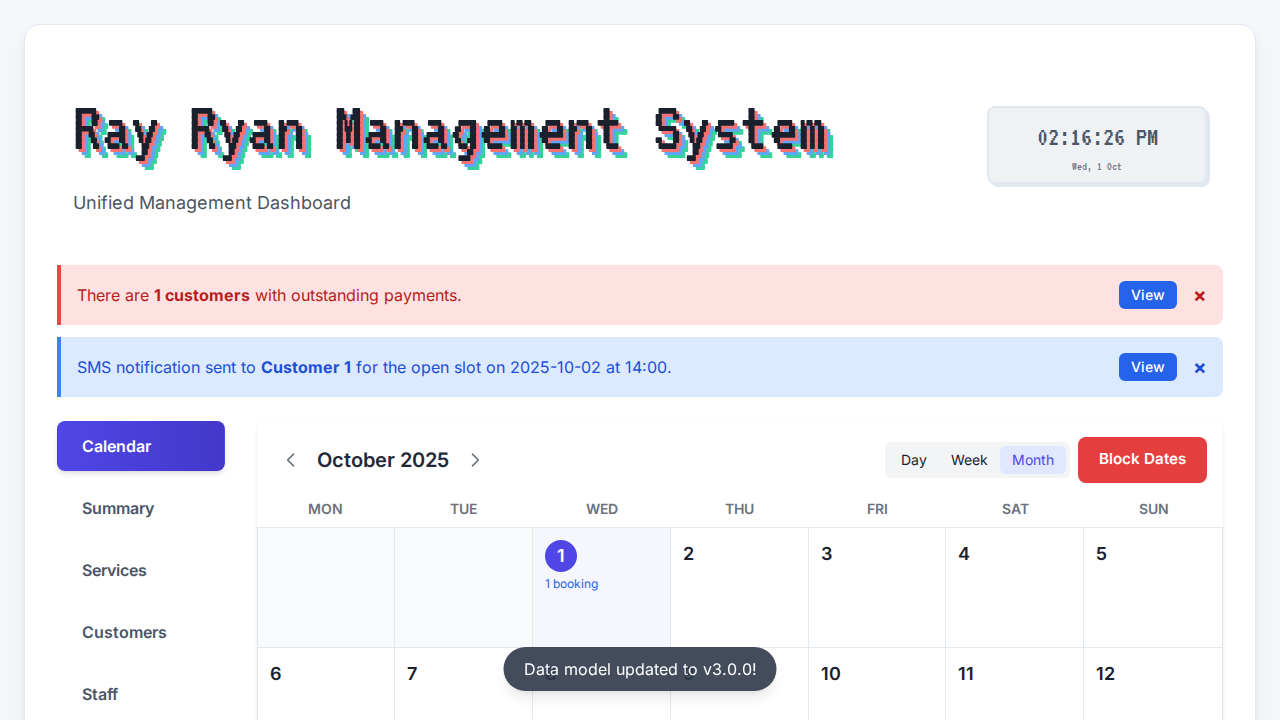
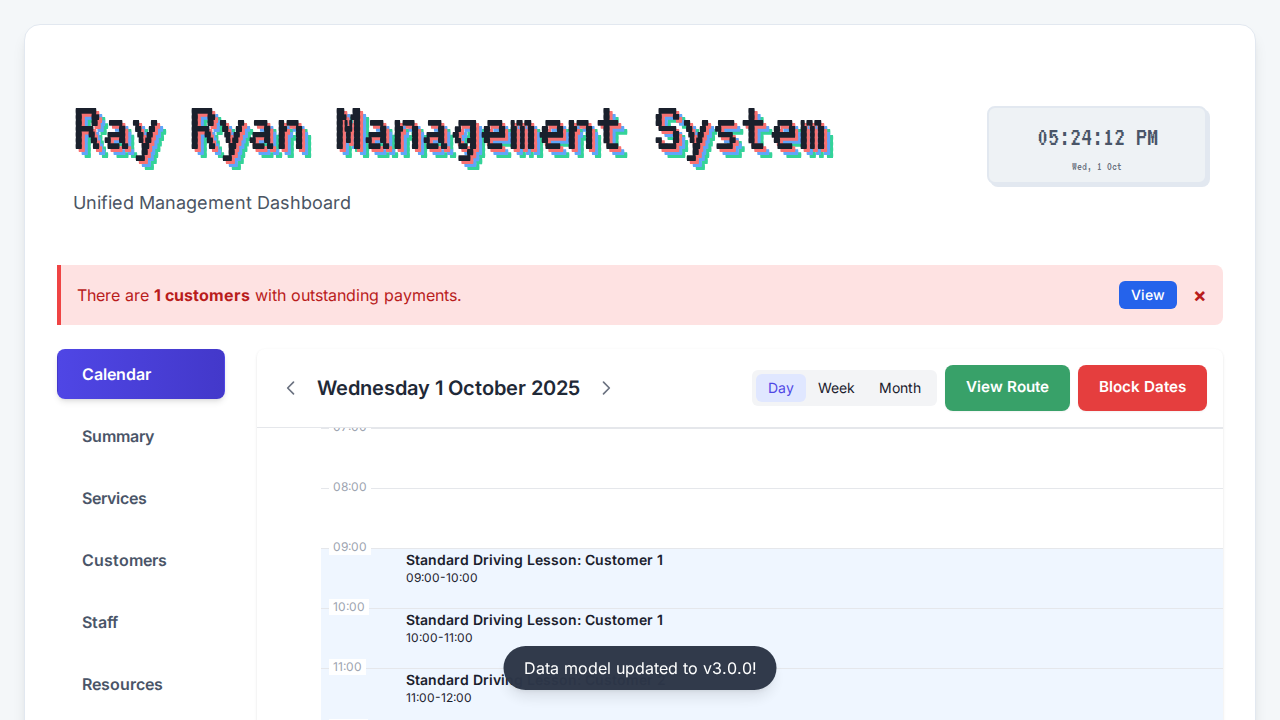
Feat: Add route planner and enhance booking/notification systems
This commit introduces several major enhancements to the application's booking, notification, and planning systems.

1.  **Daily Route Planner:**
    - A "View Route" button has been added to the Day View's header.
    - The new `generateDailyRoute` function gathers all unique pickup locations for the current day, constructs a Google Maps URL with these locations as waypoints, and opens it in a new tab.

2.  **Smart Booking Suggestions:**
    - When a booking conflict is detected, the `findAvailableSlots` function is called to find available time slots.
    - A `suggestionCount` setting has been added to control the number of suggestions displayed.
    - The `showDialog` function has been updated to render these suggestions as clickable buttons, which update the booking modal.

3.  **Automated Waiting List Notifications:**
    - An `autoNotifyWaitingList` setting has been added to control this feature.
    - The `checkWaitingListFor` function now creates a dashboard notification for each matching person on the waiting list.
    - If enabled, the notification includes a "Notify" button that triggers the `sendWaitingListSms` function, which opens the user's default SMS application with a pre-filled message.

4.  **Proactive Vehicle Compliance:**
    - The `isCompliant` property has been added to vehicle resource objects.
    - The `updateVehicleComplianceStatus` function calculates this property based on MOT and Tax due dates.
[…]

diff --git a/script.js b/script.js
@@ -1225,6 +1225,7 @@ function renderCalendarHeader() {
                     <button onclick="showView('week')" class="px-3 py-1 text-sm rounded-md ${getBtnClass('week')}">Week</button>
                     <button onclick="showView('month')" class="px-3 py-1 text-sm rounded-md ${getBtnClass('month')}">Month</button>
                 </div>
+                ${currentView === 'day' ? `<button onclick="generateDailyRoute()" class="${btnGreen}">View Route</button>` : ''}
                 <button onclick="openBlockDatesModal()" class="${btnDanger}">Block Dates</button>
             </div>
         </div>`;
@@ -3986,6 +3987,38 @@ function exportToGoogleCalendar(bookingId) {
     const location = booking.pickup || '';
     const url = `https://www.google.com/calendar/render?action=TEMPLATE&text=${encodeURIComponent(title)}&dates=${encodeURIComponent(dates)}&details=${encodeURIComponent(description)}&location=${encodeURIComponent(location)}`;
     window.open(url, '_blank');
+}
+
+function generateDailyRoute() {
+    const dateString = toLocalDateString(currentDate);
+    const dayBookings = state.bookings.filter(b => b.date === dateString && b.status !== 'Cancelled' && b.pickup);
+
+    if (dayBookings.length < 2) {
+        showDialog({
+            title: 'Not Enough Locations',
+            message: 'You need at least two bookings with pickup locations on this day to generate a route.',
+            buttons: [{ text: 'OK', class: btnPrimary }]
+        });
+        return;
+    }
+
+    // Get unique pickup locations
+    const locations = [...new Set(dayBookings.map(b => b.pickup.trim()))];
+
+    if (locations.length < 2) {
+        showDialog({
+            title: 'Not Enough Unique Locations',
+            message: 'You need at least two unique pickup locations to generate a route.',
+            buttons: [{ text: 'OK', class: btnPrimary }]
+        });
+        return;
+    }
+
+    const baseUrl = 'https://www.google.com/maps/dir/';
+    const encodedLocations = locations.map(loc => encodeURIComponent(loc)).join('/');
+    const finalUrl = baseUrl + encodedLocations;
+
+    window.open(finalUrl, '_blank');
 }
 
 function printInvoice() {

diff --git a/jules-scratch/verification/verify_route_planner.py b/jules-scratch/verification/verify_route_planner.py
@@ -1,0 +1,71 @@
+import os
+from playwright.sync_api import sync_playwright, expect
+import datetime
+
+def run_verification(playwright):
+    browser = playwright.chromium.launch(headless=True)
+    page = browser.new_page()
+
+    try:
+        # Get the absolute path to the index.html file
+        file_path = os.path.abspath('index.html')
+        page.goto(f'file://{file_path}')
+
+        # 1. Set up the scenario: two bookings with different pickup locations
+        today = datetime.date.today()
+        date_string = today.strftime('%Y-%m-%d')
+
+        page.evaluate(f"""() => {{
+            const booking1 = {{
+                id: 'booking_route_1',
+                date: '{date_string}',
+                startTime: '09:00',
+                endTime: '10:00',
+                customerId: 'customer_1',
+                staffId: 'staff_1',
+                resourceIds: ['resource_1'],
+                serviceId: 'service_lesson_1',
+                pickup: 'Dublin, Ireland',
+                status: 'Scheduled'
+            }};
+            const booking2 = {{
+                id: 'booking_route_2',
+                date: '{date_string}',
+                startTime: '11:00',
+                endTime: '12:00',
+                customerId: 'customer_2',
+                staffId: 'staff_1',
+                resourceIds: ['resource_1'],
+                serviceId: 'service_lesson_1',
+                pickup: 'Cork, Ireland',
+                status: 'Scheduled'
+            }};
+            state.bookings.push(booking1, booking2);
+            debouncedSaveState();
+        }}""")
+
+        # 2. Navigate to the Day View
+        page.get_by_role("button", name="Day").click()
+
+        # 3. Verify the "View Route" button is visible
+        route_button = page.get_by_role("button", name="View Route")
+        expect(route_button).to_be_visible()
+
+        # 4. Take a screenshot for visual confirmation
+        page.screenshot(path="jules-scratch/verification/verification.png")
+        print("Screenshot of Day View with 'View Route' button taken successfully.")
+
+    except Exception as e:
+        page.screenshot(path="jules-scratch/verification/error_screenshot.png")
+        print(f"An error occurred during verification: {e}")
+        raise e
+
+    finally:
+        # 5. Clean up
+        browser.close()
+
+
+with sync_playwright() as playwright:
+    run_verification(playwright)
+
+print("Verification script executed successfully.")
